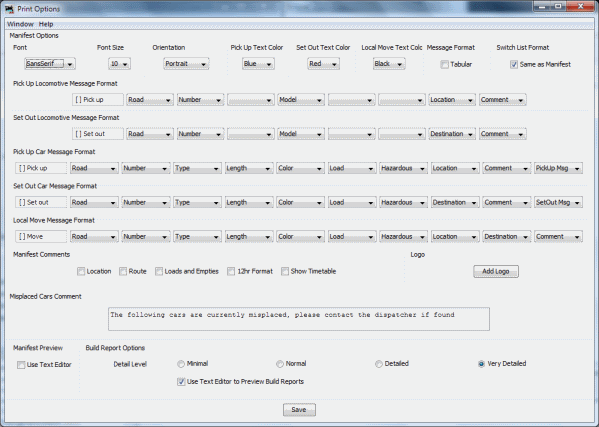
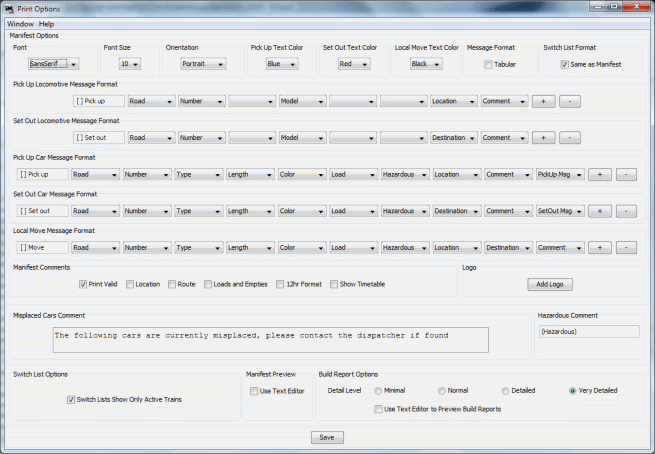
New operations feature, switch lists can now consolidate several train builds and terminations.

diff --git a/java/src/jmri/jmrit/operations/setup/PrintOptionFrame.java b/java/src/jmri/jmrit/operations/setup/PrintOptionFrame.java
@@ -129,7 +129,6 @@ public class PrintOptionFrame extends OperationsFrame{
 	
 	// switch list panels
 	JPanel pSwitchListOrientation = new JPanel();
-	JPanel pSwitchListOptions = new JPanel();
 	JPanel pSwPickup = new JPanel();
 	JPanel pSwDrop = new JPanel();
 	JPanel pSwLocal = new JPanel();
@@ -306,15 +305,8 @@ public class PrintOptionFrame extends OperationsFrame{
 		addItem(pSwitchListOrientation, new JLabel(" "), 2, 0);	// pad
 		addItem(pSwitchListOrientation, new JLabel(" "), 3, 0);	// pad
 		
-		pSwitchListOptions.setLayout(new GridBagLayout());
-		pSwitchListOptions.setBorder(BorderFactory.createTitledBorder(rb.getString("BorderLayoutSwitchListOptions")));		
-		addItem(pSwitchListOptions, switchListRealTimeCheckBox, 0, 0);
-		addItem(pSwitchListOptions, new JLabel(" "), 1, 0);	// pad
-		addItem(pSwitchListOptions, new JLabel(" "), 2, 0);	// pad
-		addItem(pSwitchListOptions, new JLabel(" "), 3, 0);	// pad
-		
 		pSl.add(pSwitchListOrientation);
-		pSl.add(pSwitchListOptions);
+		//pSl.add(pSwitchListOptions);
 		
 		// switch list car pickup message format
 		pSwPickup.setBorder(BorderFactory.createTitledBorder(rb.getString("BorderLayoutSwitchListPickupCar")));
@@ -420,6 +412,11 @@ public class PrintOptionFrame extends OperationsFrame{
 		pOptions.setLayout(new BoxLayout(pOptions, BoxLayout.X_AXIS));
 		JScrollPane pOptionsPane = new JScrollPane(pOptions);
 		pOptionsPane.setBorder(BorderFactory.createTitledBorder(""));
+			
+		JPanel pSwitchListOptions = new JPanel();
+		pSwitchListOptions.setLayout(new GridBagLayout());
+		pSwitchListOptions.setBorder(BorderFactory.createTitledBorder(rb.getString("BorderLayoutSwitchListOptions")));		
+		addItem(pSwitchListOptions, switchListRealTimeCheckBox, 0, 0);
 
 		JPanel pEdit = new JPanel();
 		pEdit.setBorder(BorderFactory.createTitledBorder(rb.getString("BorderLayoutManifestPreview")));
@@ -437,6 +434,7 @@ public class PrintOptionFrame extends OperationsFrame{
 		addItemLeft (pReport, buildReportVD, 4, 16);
 		addItemWidth (pReport, buildReportCheckBox, 3, 1, 17);	
 		
+		pOptions.add(pSwitchListOptions);
 		pOptions.add(pEdit);
 		pOptions.add(pReport);
 
